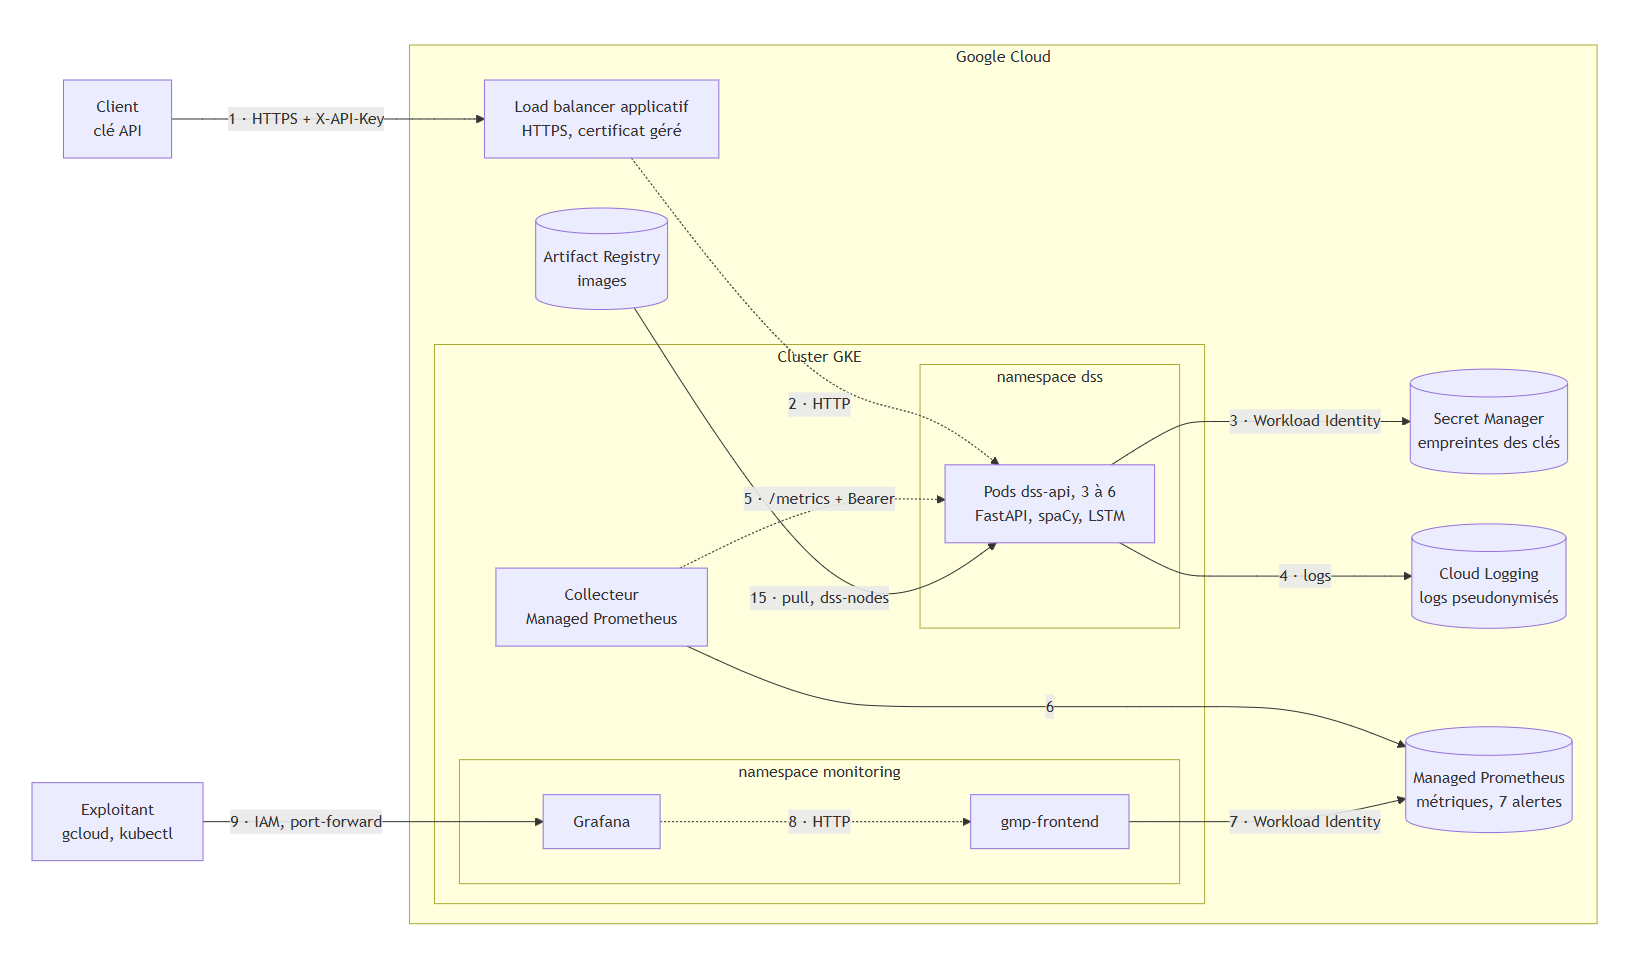
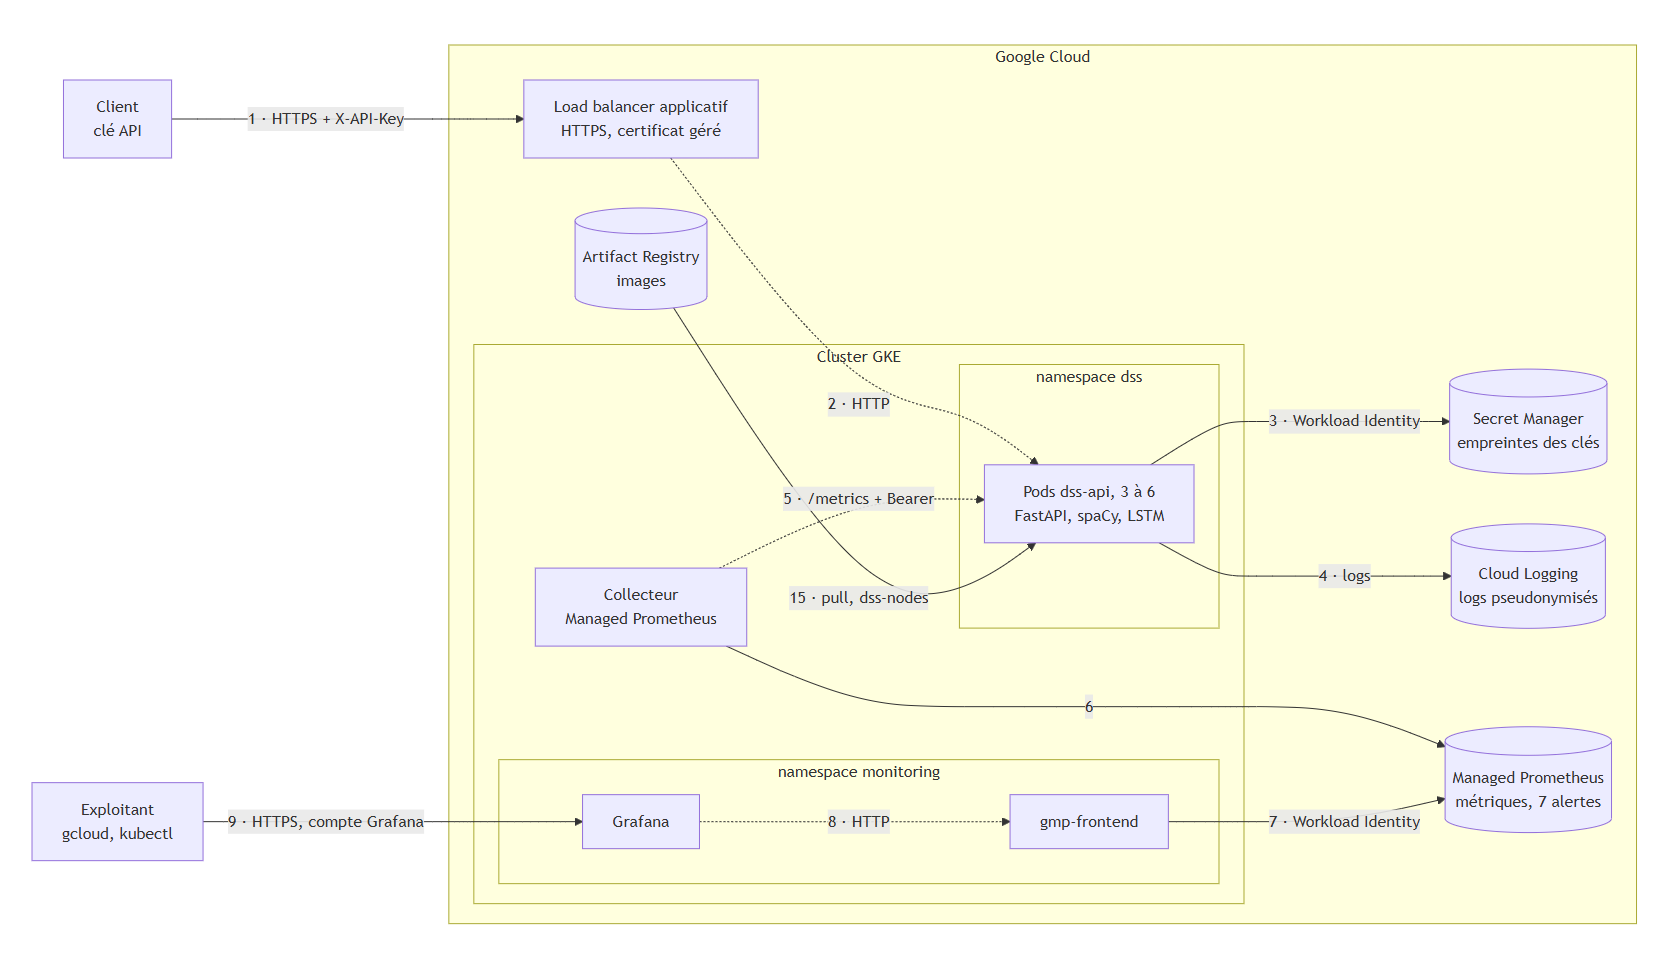
Publish Grafana over HTTPS with a read-only account
Grafana gets its own Application Load Balancer and Google-managed
certificate (136-68-86-97.sslip.io, TLS 1.2 minimum, HTTP redirected), a
persistent disk so accounts survive restarts, and a secure session cookie.
Outside readers use a Viewer account; admin stays private.

diff --git a/README.md b/README.md
@@ -654,9 +654,13 @@ perte d'un nœud n'est donc pas mesurée.
 
 Les métriques de l'API (`/metrics`) sont collectées par Managed Service for Prometheus. Grafana les affiche grâce à un
 relais, `gmp-frontend`, qui interroge Managed Prometheus avec un compte en lecture seule (`roles/monitoring.viewer`,
-Workload Identity, sans fichier de clé). Les deux pods sont dans le namespace `monitoring` et ne sont accessibles que par
-`kubectl port-forward` : rien n'est exposé sur Internet. Le mot de passe administrateur est dans un Secret Kubernetes
-créé à la main, absent du dépôt.
+Workload Identity, sans fichier de clé). Les deux pods sont dans le namespace `monitoring`. Grafana est publié en HTTPS
+sur <https://136-68-86-97.sslip.io> ([`monitoring/grafana/https.yaml`](monitoring/grafana/https.yaml)), avec le même
+montage que l'API : load balancer applicatif, certificat géré par Google, TLS 1.2 minimum, HTTP redirigé. Les lecteurs
+extérieurs (le professeur) ont un compte **Viewer** : ils voient le tableau de bord et interrogent les métriques, mais
+ne peuvent rien créer, modifier ni administrer (vérifié : `403`). Pas d'inscription ni d'accès anonyme. Le compte
+administrateur n'est jamais partagé ; son mot de passe est dans un Secret Kubernetes créé à la main, absent du dépôt.
+Les comptes sont conservés sur un disque persistant. `gmp-frontend` reste interne.
 
 ```
 API (/metrics) → Managed Prometheus → gmp-frontend → Grafana → port-forward
@@ -792,7 +796,7 @@ flowchart LR
   coll -- "6" --> mp
   front -- "7 · Workload Identity" --> mp
   graf -. "8 · HTTP" .-> front
-  ops -- "9 · IAM, port-forward" --> graf
+  ops -- "9 · HTTPS, compte Grafana" --> graf
   ar -- "15 · pull, dss-nodes" --> api
 ```
 
@@ -842,7 +846,7 @@ flowchart LR
 | Secret Manager | Empreintes SHA-256 des clés API (jamais les clés) | Rotation sans reconstruire l'image ; lecture limitée à ce seul secret |
 | Artifact Registry | Images Docker, scannées automatiquement | Registre privé dans la même région ; le scan bloque le déploiement (TP2, Exercice 5) |
 | Cloud Storage | Artefacts du modèle (27 Mo, absents du dépôt git) | Lu par le pipeline uniquement, vérifié par empreinte SHA-256 |
-| Managed Prometheus, Grafana | Métriques, 7 alertes, tableau de bord | Pas de serveur Prometheus à maintenir ; Grafana accessible seulement par tunnel |
+| Managed Prometheus, Grafana | Métriques, 7 alertes, tableau de bord | Pas de serveur Prometheus à maintenir ; Grafana en HTTPS, compte en lecture seule pour les lecteurs extérieurs |
 | Cloud Logging | Logs de l'API, 30 jours | Pseudonymisés : identifiant de requête, client, longueur, verdict, score, latence ; jamais le texte ni l'IP |
 | Cloud Build | Pipeline : secrets, tests, dépendances, intégrité du modèle, build, scan, déploiement | Compte dédié à droits minimaux, déclenché par un push sur `main` |
 
@@ -858,7 +862,7 @@ flowchart LR
 | 6 | Collecteur → Managed Prometheus | Identité gérée par Google | TLS |
 | 7 | `gmp-frontend` → Managed Prometheus | Workload Identity, `monitoring.viewer` (lecture seule) | TLS |
 | 8 | Grafana → `gmp-frontend` | Aucune (même namespace) | Non (HTTP interne) |
-| 9 | Exploitant → Grafana | IAM Google (accès au cluster) puis mot de passe Grafana | TLS jusqu'au cluster (`kubectl port-forward`) |
+| 9 | Lecteur → Grafana | Compte Grafana : `Viewer` pour les lecteurs extérieurs, `admin` réservé à l'exploitation | TLS 1.2 minimum (load balancer applicatif, certificat géré) |
 | 10, 11 | GitHub → Cloud Build | Application GitHub de Cloud Build, déclencheur sur `main` | TLS |
 | 12 | Cloud Build → Cloud Storage | `dss-deployer` : `storage.objectViewer` sur ce seul bucket | TLS ; intégrité par SHA-256 |
 | 13 | Cloud Build → Artifact Registry | `dss-deployer` : `artifactregistry.writer` sur ce seul dépôt, lecture des résultats du scan | TLS |

diff --git a/step_deployment.md b/step_deployment.md
@@ -338,3 +338,24 @@ gcloud compute ssl-policies delete dss-tls12 --global --quiet
 #        k8s/service.yaml) ; l'Ingress reste la seule entree publique.
 kubectl apply -n dss -f k8s/service.yaml
 curl -s -m 8 http://34.53.169.140/health     # ne doit plus repondre
+
+# 23. Grafana en HTTPS, avec un compte en lecture seule pour les lecteurs exterieurs
+#     Meme montage que l'API (etape 22), sur son propre load balancer (un Ingress ne route que vers
+#     son namespace). Les comptes sont sur un disque persistant (PersistentVolumeClaim grafana-data).
+#     a) IP fixe ; le nom 136-68-86-97.sslip.io (dans monitoring/grafana/https.yaml) doit lui correspondre
+gcloud compute addresses create grafana-ip --global --ip-version=IPV4
+gcloud compute addresses describe grafana-ip --global --format="value(address)"
+#     b) Deployer
+kubectl kustomize monitoring/grafana | ForEach-Object { $_ -replace 'PROJECT_ID_PLACEHOLDER', $PROJECT_ID } | kubectl apply -f -
+kubectl get managedcertificate grafana-cert -n monitoring    # Provisioning puis Active
+#     c) Compte Viewer "professeur" (par le tunnel, avec le compte admin) : le mot de passe est tape ici,
+#        jamais ecrit dans le depot.
+kubectl port-forward svc/grafana 3300:3000 -n monitoring     # dans un autre terminal
+$adminPw  = Read-Host "Mot de passe admin Grafana"
+$viewerPw = Read-Host "Mot de passe a donner au lecteur"
+$auth = @{ Authorization = "Basic " + [Convert]::ToBase64String([Text.Encoding]::UTF8.GetBytes("admin:$adminPw")) }
+$user = Invoke-RestMethod -Method Post -Uri http://127.0.0.1:3300/api/admin/users -Headers $auth -ContentType "application/json" `
+  -Body (@{ name = "Professeur"; login = "professeur"; password = $viewerPw } | ConvertTo-Json)
+Invoke-RestMethod -Method Patch -Uri "http://127.0.0.1:3300/api/orgs/1/users/$($user.id)" -Headers $auth -ContentType "application/json" `
+  -Body '{"role":"Viewer"}'
+Remove-Variable adminPw, viewerPw
